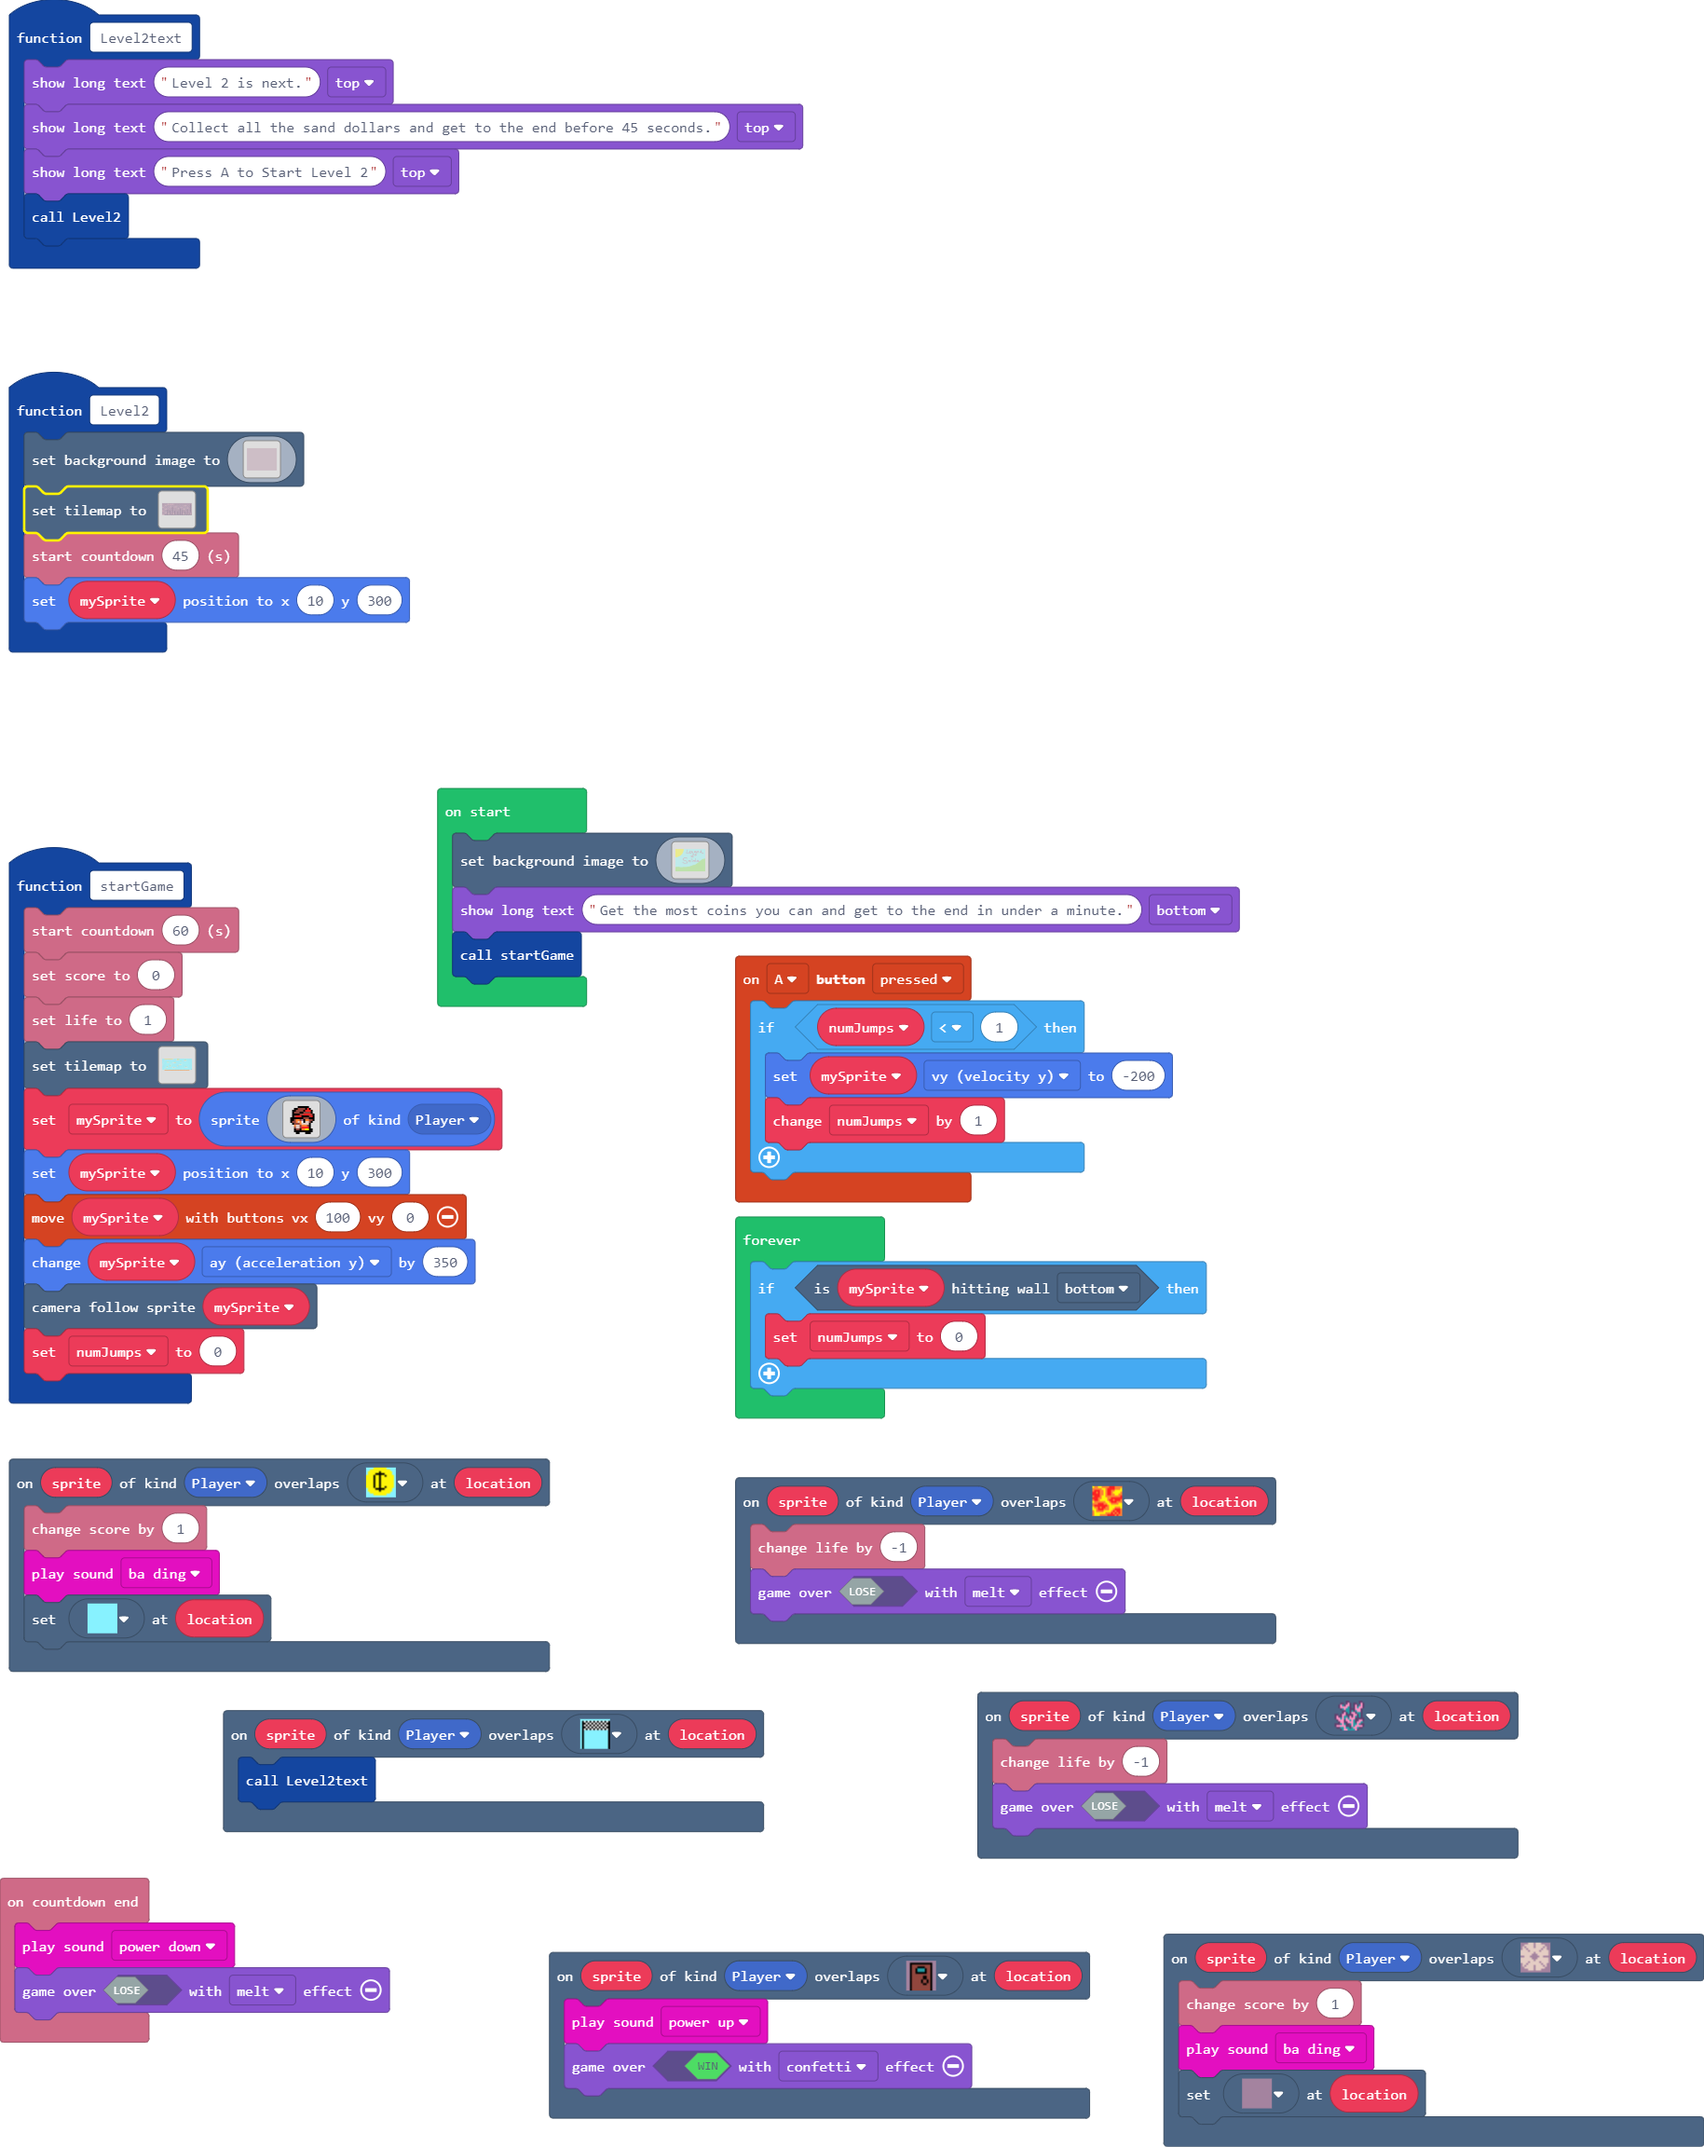
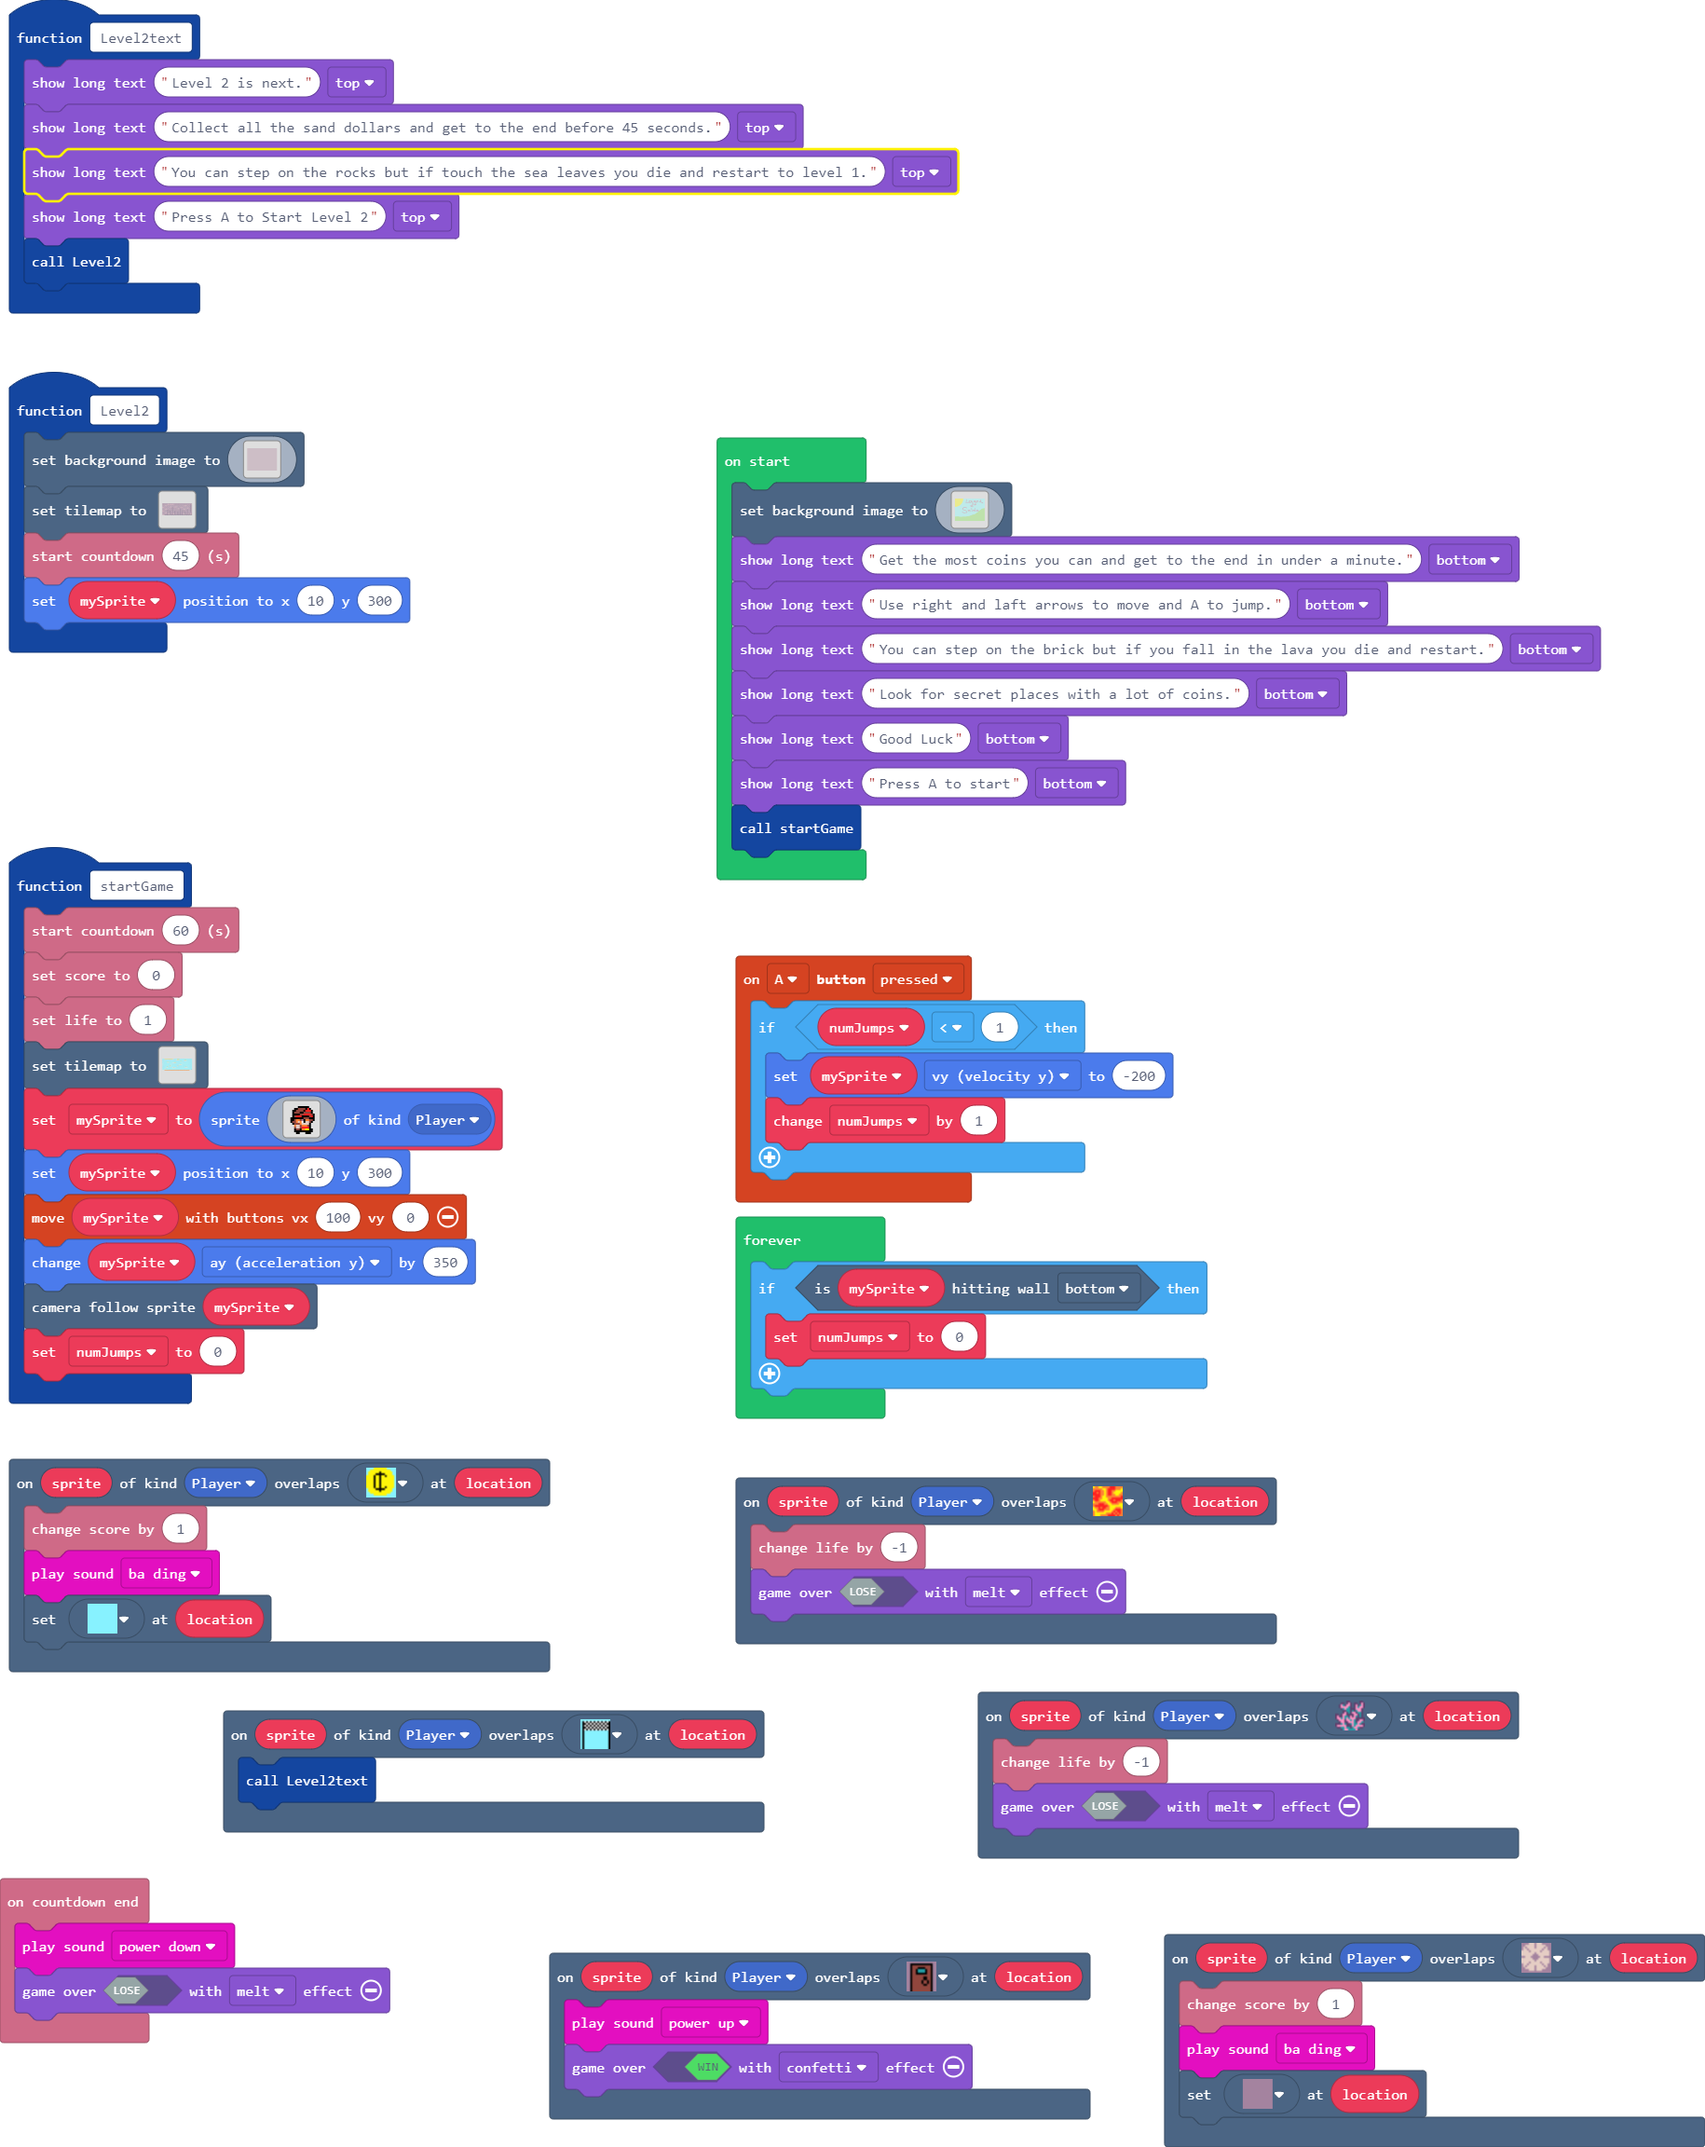
Update main.blocks, main.ts

diff --git a/main.ts b/main.ts
@@ -250,6 +250,7 @@ b b b b b b b b b b b b b b b b
 function Level2text () {
     game.showLongText("Level 2 is next.", DialogLayout.Top)
     game.showLongText("Collect all the sand dollars and get to the end before 45 seconds.", DialogLayout.Top)
+    game.showLongText("You can step on the rocks but if touch the sea leaves you die and restart to level 1.", DialogLayout.Top)
     game.showLongText("Press A to Start Level 2", DialogLayout.Top)
     Level2()
 }
@@ -621,6 +622,11 @@ scene.setBackgroundImage(img`
 7 7 7 7 7 7 7 7 7 7 7 7 7 7 7 7 7 7 7 7 7 7 7 7 7 7 7 7 7 7 7 7 7 7 7 7 7 7 7 7 7 7 7 7 7 7 7 7 7 7 7 7 7 7 7 7 7 7 7 7 7 7 7 7 7 7 7 7 7 7 7 7 7 7 7 7 7 7 7 7 7 7 7 7 7 7 7 7 7 7 7 7 7 7 7 7 7 7 7 7 7 7 7 7 7 7 7 7 7 7 7 7 7 7 7 7 7 7 7 7 7 7 7 7 7 7 7 7 7 7 7 7 7 7 7 7 7 7 7 7 7 7 7 7 7 7 7 7 7 7 7 7 7 7 7 7 7 7 7 7 
 `)
 game.showLongText("Get the most coins you can and get to the end in under a minute.", DialogLayout.Bottom)
+game.showLongText("Use right and laft arrows to move and A to jump.", DialogLayout.Bottom)
+game.showLongText("You can step on the brick but if you fall in the lava you die and restart.", DialogLayout.Bottom)
+game.showLongText("Look for secret places with a lot of coins.", DialogLayout.Bottom)
+game.showLongText("Good Luck", DialogLayout.Bottom)
+game.showLongText("Press A to start", DialogLayout.Bottom)
 startGame()
 forever(function () {
     if (mySprite.isHittingTile(CollisionDirection.Bottom)) {
